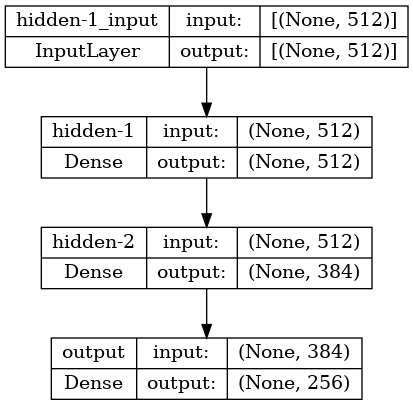
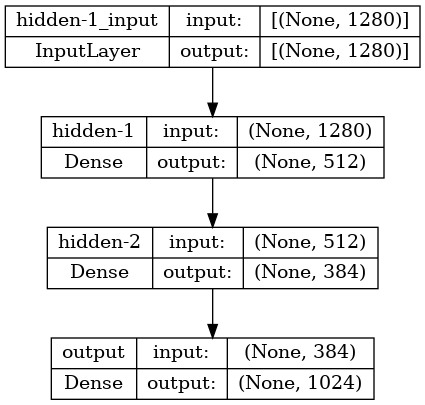
fixes

diff --git a/main.py b/main.py
@@ -13,7 +13,8 @@ from random import randint
 
 
 image_size = 32
-desired_samples = 10000
+# desired_samples = 10000
+desired_samples = 100
 slbp_normalization = 'max'
 slbp_normalization = 'by_step'
 
@@ -178,9 +179,9 @@ def main():
     model_1 = Sequential()
 
     # ryser
-    model_1.add(Dense(512, input_shape=(512,), activation='relu', name="hidden-1"))
+    model_1.add(Dense(512, input_shape=(feature_nodes,), activation='relu', name="hidden-1"))
     model_1.add(Dense(384, activation='relu', name="hidden-2"))
-    model_1.add(Dense(256, activation='relu', name="output"))
+    model_1.add(Dense(result_nodes, activation='relu', name="output"))
 
     model_1.summary()
     plot_model(model_1, show_shapes=True, show_layer_names=True)
@@ -294,6 +295,62 @@ def main():
     print(X_test.shape)
     print(predicts.shape)
     # print(a[0].reshape(28, 28))
+
+
+    # TODO: move to import section
+    import matplotlib.pyplot as plt
+    # %matplotlib inline
+
+    image_number = 1
+    # predicted_NN = a[image_number].round().astype('int').reshape(image_size, image_size)
+    predicted_NN = predicts[image_number].round().astype('int').reshape(image_size, image_size)
+    predicted_ryser = ryser_algorithm(Y_test[image_number].reshape(image_size, image_size))
+    original = Y_test[image_number].reshape(image_size, image_size)
+
+    print(f'{"="*30} ORIGINAL {"="*30}')
+    print(original)
+    print(f'{"="*30}    NN {"="*30}')
+    print(predicted_NN)
+    print(f'{"="*30}   RYSER  {"="*30}')
+    print(predicted_ryser)
+
+
+    original_r, original_c = calculate_projections(original)
+
+    print('NN')
+    print(f'\trme: {relative_mean_error(original, predicted_NN)}')
+    print(f'\tp e: {pixel_error(original, predicted_NN)}')
+    nn_r, nn_c = calculate_projections(predicted_NN)
+    print(f'\tprojection differences:\n\t\trows: {original_r - nn_r}\n\t\tcols: {original_c - nn_c}')
+    print(f'\teuclidean distance:\n\t\trows:{np.linalg.norm(original_r - nn_r)}\n\t\tcols:: {np.linalg.norm(original_c - nn_c)}')
+
+    print('Ryser')
+    print(f'\trme: {relative_mean_error(original, predicted_ryser)}')
+    print(f'\tp e: {pixel_error(original, predicted_ryser)}')
+    ryser_r, ryser_c = calculate_projections(predicted_ryser)
+    print(f'\tprojection differences:\n\t\trows: {original_r - ryser_r}\n\t\tcols: {original_c - ryser_c}')
+    print(f'\teuclidean distance:\n\t\trows:{np.linalg.norm(original_r - ryser_r)}\n\t\tcols:: {np.linalg.norm(original_c - ryser_c)}')
+
+    # fig, axs = plt.subplots(1, 3)
+    # axs[0].set_title('original')
+    # axs[0].imshow(original*16, interpolation='none', cmap=plt.cm.binary)
+    # axs[1].set_title('NN')
+    # axs[1].imshow(predicted_NN, interpolation='none', cmap=plt.cm.binary)
+    # axs[2].set_title('Ryser')
+    # axs[2].imshow(predicted_ryser, interpolation='none', cmap=plt.cm.binary)
+    for i in range(5):
+        predicted_NN = predicts[i].round().astype('int').reshape(image_size, image_size)
+        predicted_ryser = ryser_algorithm(Y_test[i].reshape(image_size, image_size))
+        original = Y_test[i].reshape(image_size, image_size)
+
+        fig, axs = plt.subplots(1, 3)
+        axs[0].set_title('original')
+        axs[0].imshow(original * 16, interpolation='none', cmap=plt.cm.binary)
+        axs[1].set_title('NN')
+        axs[1].imshow(predicted_NN, interpolation='none', cmap=plt.cm.binary)
+        axs[2].set_title('Ryser')
+        axs[2].imshow(predicted_ryser, interpolation='none', cmap=plt.cm.binary)
+        plt.savefig(f'results/{i}.png')
 
 
 # Press the green button in the gutter to run the script.
